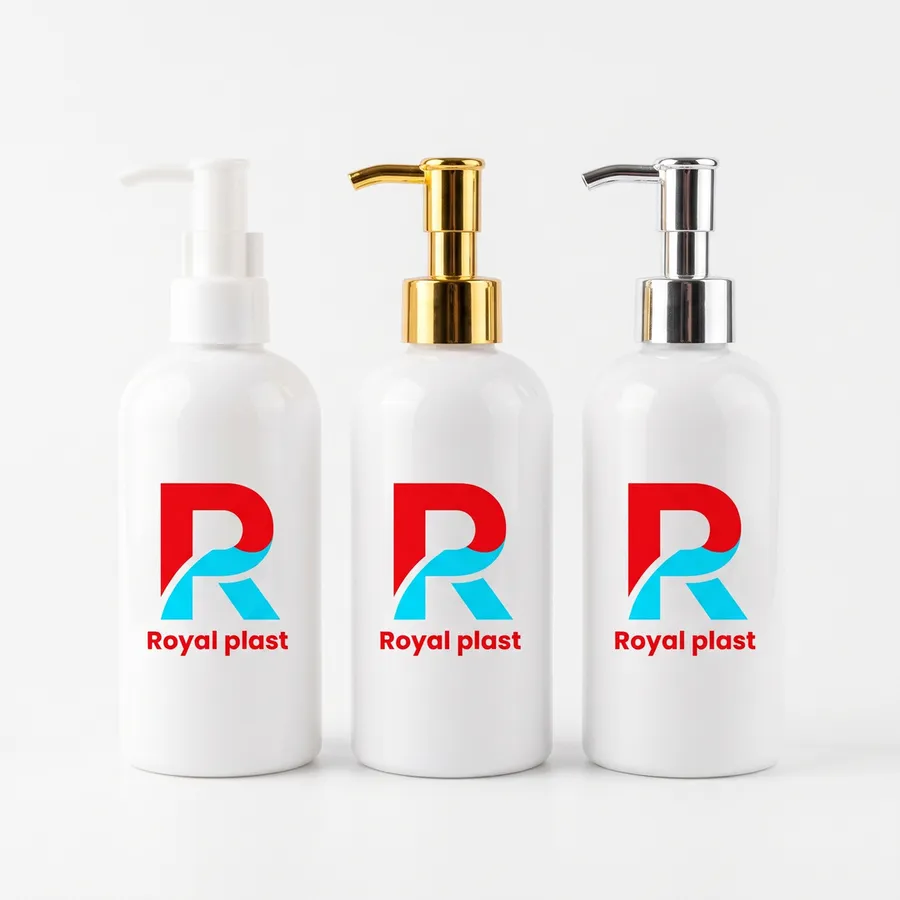
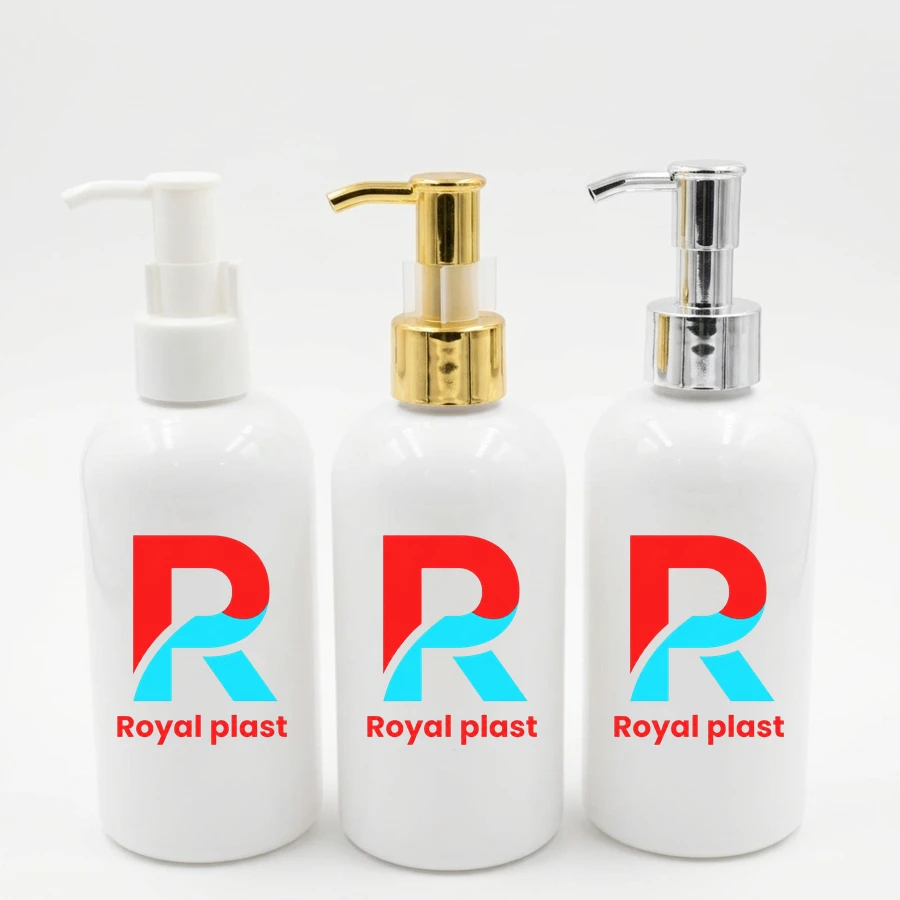
RP-085: restore original Turkish pumps on image 3
Claude-Session: https://claude.ai/code/session_01RHpAwk7S9yFShcnyhoKaQD

Changed region(s): [[0.0622, 0.1556, 0.8711, 0.9956], [0.6844, 0.5289, 0.8711, 0.8711], [0.6533, 0.1556, 0.8711, 0.4978]]

diff --git a/app.js b/app.js
@@ -55,7 +55,7 @@ function fullTitle(p){return `${t(p.cat=='jar'?'jar':'bottle')} ${sizesTxt(p)}`.
 function sub(p){if(p.nospec)return t('nospec');const a=[];if(p.necks.length)a.push(p.necks.map(n=>'NK'+n).join(' / '));p.caps.forEach(c=>a.push(capName(c)));p.extra.forEach(e=>a.push(lang=='ar'?e.ar:e.en));return a.join(' · ')}
 const colTxt=p=>p.colors.map(c=>t(c)).join('، ').replace(/،/g,lang=='ar'?'، ':', ');
 const dotsHTML=p=>`<span class="dots">${p.colors.map(c=>`<i class="dot d-${c}" title="${t(c)}"></i>`).join('')}</span>`;
-const IMGV='20261110a';const imgU=n=>`img/${n}.webp?v=${IMGV}`,thU=n=>`t/${n}.webp?v=${IMGV}`;
+const IMGV='20261110b';const imgU=n=>`img/${n}.webp?v=${IMGV}`,thU=n=>`t/${n}.webp?v=${IMGV}`;
 function reveal(root){const io=new IntersectionObserver(es=>es.forEach(e=>{if(e.isIntersecting){e.target.classList.add('in');io.unobserve(e.target)}}),{threshold:.12,rootMargin:'0px 0px -40px 0px'});
  (root||document).querySelectorAll('.rv:not(.in)').forEach(el=>io.observe(el))}
 function applyLang(){document.documentElement.lang=lang;document.documentElement.dir=lang=='ar'?'rtl':'ltr';
